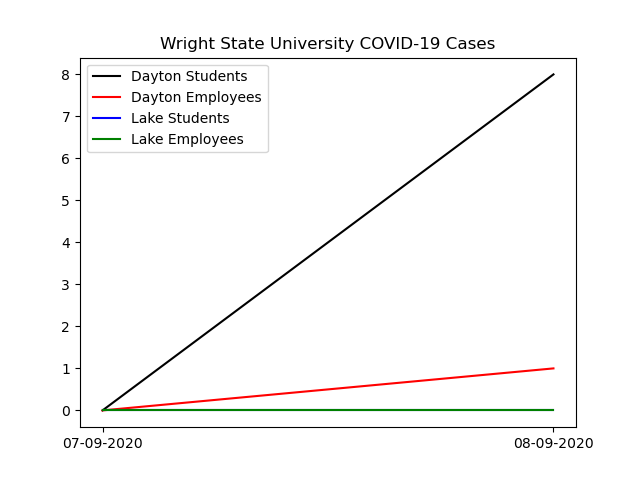
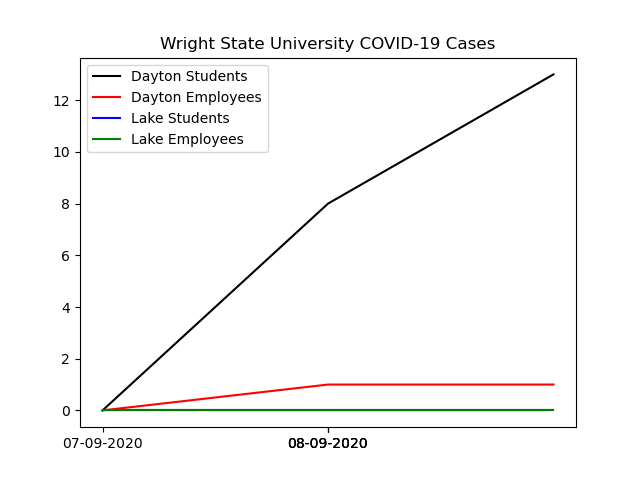
Removed some dates from x axis for cleanliness

diff --git a/tracker.py b/tracker.py
@@ -34,6 +34,7 @@ def generate_plot(dataframe):
         ax1.plot(dates, datasets[i], c=colors[i], label=dataset_labels[i], linestyle='-')
 
     # plt.xticks([dates[i] for i in range(0, len(dates) + 1, len(dates) // 4)])
+    plt.xticks([dates[i] for i in range(0, len(dates), len(dates) // 4)])
     plt.legend(loc='upper left')
     plt.title('Wright State University COVID-19 Cases')
 
